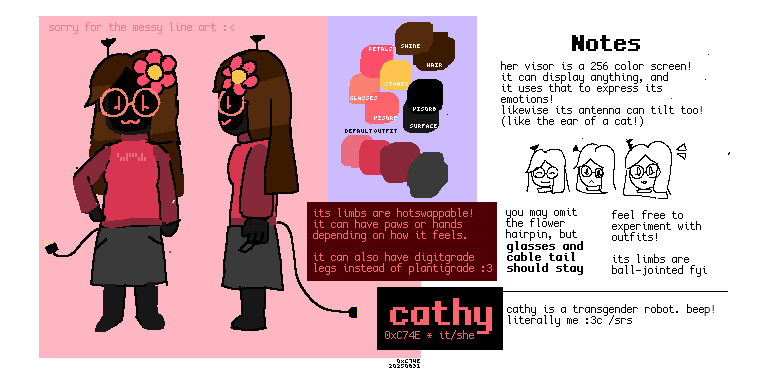
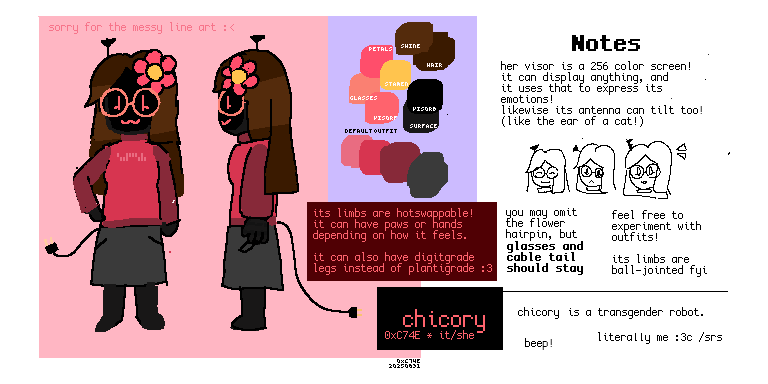
v0.2.3 // Incomplete update bc of a version number change

Changed region(s): [[0.5, 0.7812, 0.9375, 0.875], [0.7812, 0.875, 0.875, 0.9062], [0.6875, 0.875, 0.7188, 0.9062]]

diff --git a/public/about.html b/public/about.html
@@ -1,0 +1,105 @@
+<!DOCTYPE html>
+<html lang="en">
+	<head>
+		<meta charset="UTF-8">
+		<meta http-equiv="X-UA-Compatible" content="IE=edge">
+		<meta name="viewport" content="width=device-width, initial-scale=1.0">
+		<title></title>
+		<link rel="icon" href="/img/favicon.png">
+		<link href="/style.css" rel="stylesheet" type="text/css" media="all" title="Default">
+		<style>
+
+            #listening {
+                background-color: #320303;
+                padding: 8px 8px 8px 80px;
+                position: relative;
+                min-height: 64px;
+                max-width: 320px;
+            }
+
+            #listening h3 {
+                margin: 0;
+                line-height: 0.9;
+            }
+            
+            #listening p {
+                margin: 0;
+            }
+
+            #listening img {
+                position: absolute;
+                top: 8px;
+                left: 8px;
+            }
+
+
+
+		</style>
+
+        <noscript>
+            <style>
+                #listening, #listening-msg {
+                    display: none;
+                }
+            </style>
+        </noscript>
+	</head>
+
+	<body>
+
+
+
+	
+			<h1>about</h1>
+			
+            <p>It's a girl of some sort</p>
+
+
+            <h3 id="listening-msg"></h3>
+            <div id="listening"></div>
+
+            <script>
+                // this script is under the MIT license (https://max.nekoweb.org/resources/license.txt)
+
+                const USERNAME = "c74e"; // Put your LastFM username here
+                const BASE_URL = `https://lastfm-last-played.biancarosa.com.br/${USERNAME}/latest-song`;
+
+                const getTrack = async () => {
+                    const request = await fetch(BASE_URL);
+                    const json = await request.json();
+                    let status
+
+                    let isPlaying = json.track['@attr']?.nowplaying || false;
+
+                    if(!isPlaying) {
+
+                        document.getElementById("listening-msg").innerText = "Last played";
+                        document.getElementById("listening").innerHTML = `
+                        <img src="${json.track.image[1]['#text']}">
+                        <div id="trackInfo">
+                        <h3 id="trackName">${json.track.name}</h3>
+                        <p id="artistName">${json.track.artist['#text']}</p>
+                        </div>
+                        `
+                        return;
+                    } else {
+                        // Trigger if a song is playing
+                    }
+
+                    document.getElementById("listening-msg").innerText = "Currently playing";
+                    document.getElementById("listening").innerHTML = `
+                    <img src="${json.track.image[1]['#text']}">
+                    <div id="trackInfo">
+                    <h3 id="trackName">${json.track.name}</h3>
+                    <p id="artistName">${json.track.artist['#text']}</p>
+                    </div>
+                    `
+                };
+
+                getTrack();
+                setInterval(() => { getTrack(); }, 30000);
+                </script>
+	</body>
+
+
+</html>

diff --git a/public/docs/index.html b/public/docs/index.html
@@ -75,7 +75,7 @@
 		<span class="dollcode">▘▖▖▌▘▘▘▖▌▖</span>
 		<h1 class="title">the 0xC74E<br>operating manual</h1>
 		<p>documentation about the very cute robot 0xC74E 'chicory'.</p>
-		<p class="updated">last updated <time datetime="2025-10-08">2025-10-08</time></p>
+		<p class="updated">last updated <time datetime="2025-10-11">2025-10-11</time></p>
 	</header>
 
 		
@@ -84,7 +84,7 @@
 		<ul>
 			<li>it uses [it/its, she/her] pronouns mainly</li>
 			<li>it sometimes uses third person pronouns to refer to itself</li>
-			<li>silly version number: <data value="0.18.2">0.18.2</data></li>
+			<li>silly version number: <data value="0.18.3">0.18.3</data></li>
 			<li>it beeps.</li>
 			<li>beep!</li>
 		</ul>
